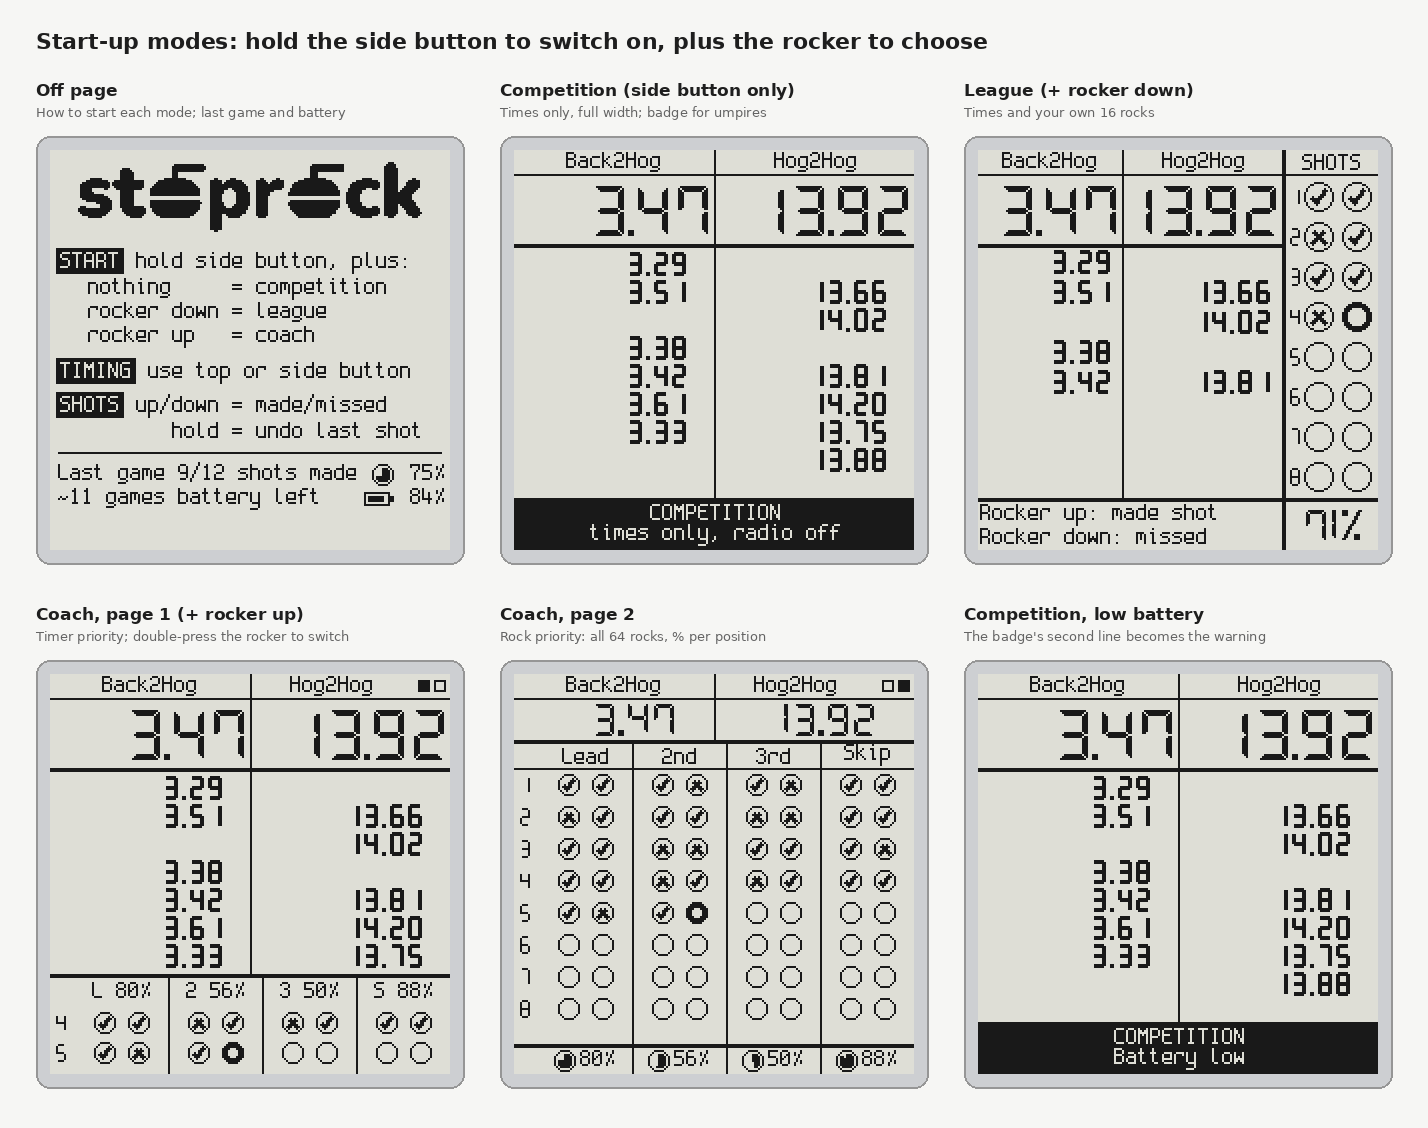
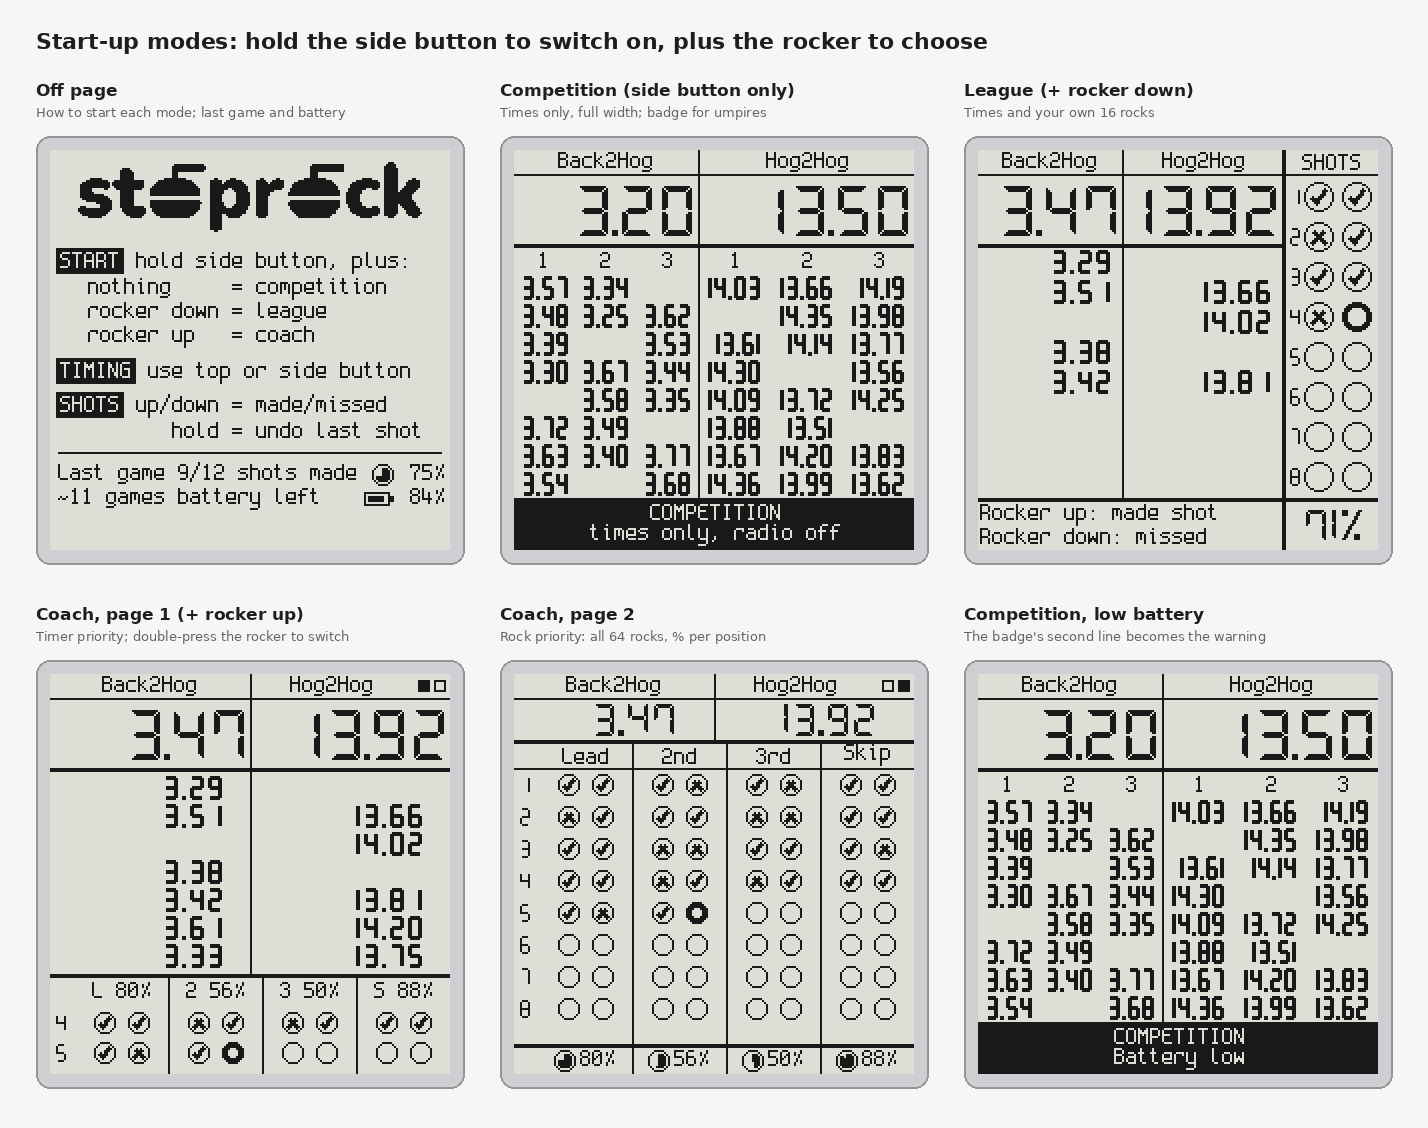
Competition: history in three columns per split
Older times now sit three to a row under column labels 1 2 3, filling
rows left to right, newest first: 24 stones instead of 9. They use
slightly narrower drawn digits (6 px wide, a narrow "1"), and the split
moves to x 92 so the wider H2H times get more room. The app keeps 25
stones for the screen.

Claude-Session: https://claude.ai/code/session_01YA9zoncxe9XeMCwR12hQbC

diff --git a/firmware/lib/stoprock_ui/src/screens.cpp b/firmware/lib/stoprock_ui/src/screens.cpp
@@ -63,6 +63,7 @@ struct SegFont {
 
 constexpr SegFont kRowFont{12, 7, 2, 2, 2, false};  // older results
 constexpr SegFont kEndFont{9, 5, 1, 1, 1, false};   // end numbers: equal-width cells, a "1" sits on the right
+constexpr SegFont kGridFont{12, 6, 2, 1, 2, true};   // competition history, three to a row
 
 enum Align { kLeft, kCentre, kRight };
 
@@ -311,18 +312,55 @@ void rectOutline(Canvas& c, int x0, int y0, int x1, int y1) {
     c.fillRect(x1, y0, x1, y1);
 }
 
-// Back2Hog | Hog2Hog across the full width: header, newest large, older below.
-void timesWide(Canvas& c, const Stone* stones, int count, int bottom, int labelRight) {
+// Competition history: three columns in each half, labelled 1 2 3; older stones fill the rows
+// left to right, newest first. H2H times are a digit wider, so that half is wider (split at 92).
+constexpr int COMP_MID = 92;
+constexpr int GRID_TOP = 62, GRID_PITCH = 14;
+constexpr int GRID_TYPICAL[2] = {23, 26};  // width of "3.47" and "13.92": each column centres that width
+
+void gridColumns(int half, int mid, int* edges) {
+    const int x0 = half == 0 ? 0 : mid, x1 = half == 0 ? mid : W;
+    for (int k = 0; k < 4; ++k) edges[k] = x0 + (x1 - x0) * k / 3;
+}
+
+void timesGrid(Canvas& c, const Stone* stones, int count, int bottom, int mid) {
+    int cols[2][4];
+    gridColumns(0, mid, cols[0]);
+    gridColumns(1, mid, cols[1]);
+    static const char* const kLabels[3] = {"1", "2", "3"};
+    for (int half = 0; half < 2; ++half)
+        for (int k = 0; k < 3; ++k)
+            textInBox(c, kFontSpleen6x12, kLabels[k], cols[half][k], cols[half][k + 1], 49, 61, kCentre, 4);
+    char buf[12];
+    for (int i = 1; i < count; ++i) {
+        const int row = (i - 1) / 3, k = (i - 1) % 3;
+        const int ry = GRID_TOP + row * GRID_PITCH;
+        if (ry + GRID_PITCH > bottom) break;
+        const int32_t vals[2] = {stones[i].bh, stones[i].hh};
+        for (int half = 0; half < 2; ++half) {
+            if (vals[half] < 0) continue;
+            const int x0 = cols[half][k], x1 = cols[half][k + 1];
+            formatTime(vals[half], buf, sizeof buf);
+            segInBox(c, kGridFont, buf, x0, x1, ry, ry + GRID_PITCH, kRight, (x1 - x0 - GRID_TYPICAL[half]) / 2);
+        }
+    }
+}
+
+// Back2Hog | Hog2Hog across the full width: header, newest large, older below
+// (one to a row, or with grid three to a row).
+void timesWide(Canvas& c, const Stone* stones, int count, int bottom, int labelRight, bool grid = false,
+               int mid = WIDE_MID) {
     const Font& label = kFontSpleen6x12;
-    textInBox(c, label, "Back2Hog", 0, WIDE_MID, 0, LABEL_H, kCentre, 4);
-    textInBox(c, label, "Hog2Hog", WIDE_MID, labelRight, 0, LABEL_H, kCentre, 4);
+    textInBox(c, label, "Back2Hog", 0, mid, 0, LABEL_H, kCentre, 4);
+    textInBox(c, label, "Hog2Hog", mid, labelRight, 0, LABEL_H, kCentre, 4);
     hline(c, 0, W - 1, LABEL_H);
     if (count > 0) {
-        if (stones[0].bh >= 0) dsegNumber(c, stones[0].bh, 0, WIDE_MID, 13, 47);
-        if (stones[0].hh >= 0) dsegNumber(c, stones[0].hh, WIDE_MID, W, 13, 47);
+        if (stones[0].bh >= 0) dsegNumber(c, stones[0].bh, 0, mid, 13, 47);
+        if (stones[0].hh >= 0) dsegNumber(c, stones[0].hh, mid, W, 13, 47);
     }
     hline(c, 0, W - 1, 47, 2);
-    vline(c, WIDE_MID, 0, bottom - 1);
+    vline(c, mid, 0, bottom - 1);
+    if (grid) { timesGrid(c, stones, count, bottom, mid); return; }
     char buf[12];
     for (int i = 1; i < count; ++i) {
         const int ry = 50 + (i - 1) * 14;
@@ -368,7 +406,7 @@ void drawCompetition(Canvas& c, const Stone* stones, uint8_t count, bool lowBatt
     c.clear();
     const Font& label = kFontSpleen6x12;
     const int strip = H - TIP_H;
-    timesWide(c, stones, count, strip, W);
+    timesWide(c, stones, count, strip, W, true, COMP_MID);
     c.fillRect(0, strip, W - 1, H - 1);
     textInBox(c, label, "COMPETITION", 0, W, strip + 1, strip + 13, kCentre, 4, false);
     textInBox(c, label, lowBattery ? "Battery low" : "times only, radio off", 0, W, strip + 13, strip + 25,

diff --git a/tools/mockups/screen.py b/tools/mockups/screen.py
@@ -158,6 +158,7 @@ def _make_fonts():
         big=ImageFont.truetype(str(DSEG), 25),
         row=SegFont(h=12, w=7, t=2, gap=2, dot=2),
         tiny=SegFont(h=9, w=5, t=1, gap=1),  # equal-width cells: a "1" sits on the right
+        grid=SegFont(h=12, w=6, t=2, gap=1, dot=2, prop=True),  # competition history: 3 to a row
         pct=ImageFont.truetype(str(DSEG), 16),
     )
 
@@ -363,10 +364,42 @@ WIDE_MID = 100               # times split in competition and coach page 1
 COACH_GX = [12 + k * 47 for k in range(5)]  # coach position columns
 
 
-def times_wide(d, f, stones, bottom, label_right=W):
-    """Back2Hog | Hog2Hog across the full width: header, newest large, older below.
+# Competition history: three columns in each half, labelled 1 2 3; older stones fill the rows
+# left to right, newest first, so column 1 of the top row is the stone before the newest.
+# H2H times are a digit wider than B2H, so the H2H half is wider: the split moves left to 92.
+COMP_MID = 92
+GRID_TOP = 62                # first row
+GRID_PITCH = 14
+GRID_TYPICAL = (23, 26)      # width of "3.47" and "13.92": each column centres that width
+
+
+def grid_columns(half, mid):
+    """Edges of the three columns in a half (0 = B2H, 1 = H2H)."""
+    x0, x1 = (0, mid) if half == 0 else (mid, W)
+    return [x0 + (x1 - x0) * k // 3 for k in range(4)]
+
+
+def times_grid(d, f, stones, bottom, mid):
+    cols = [grid_columns(0, mid), grid_columns(1, mid)]
+    for half in range(2):
+        for k in range(3):
+            text_in_box(d, str(k + 1), f["label"], cols[half][k], cols[half][k + 1], 49, 61, align="center")
+    for i, stone in enumerate(stones[1:]):
+        row, k = divmod(i, 3)
+        ry = GRID_TOP + row * GRID_PITCH
+        if ry + GRID_PITCH > bottom:
+            break
+        for half, val in enumerate(stone):
+            if val is not None:
+                x0, x1 = cols[half][k], cols[half][k + 1]
+                margin = (x1 - x0 - GRID_TYPICAL[half]) // 2
+                text_in_box(d, f"{val:.2f}", f["grid"], x0, x1, ry, ry + GRID_PITCH, margin=margin)
+
+
+def times_wide(d, f, stones, bottom, label_right=W, grid=False, mid=WIDE_MID):
+    """Back2Hog | Hog2Hog across the full width: header, newest large, older below
+    (one to a row, or with grid=True three to a row).
     label_right: where the Hog2Hog label's box ends (left of the page marks in coach mode)."""
-    mid = WIDE_MID
     text_in_box(d, "Back2Hog", f["label"], 0, mid, 0, 12, align="center")
     text_in_box(d, "Hog2Hog", f["label"], mid, label_right, 0, 12, align="center")
     d.line([(0, 12), (W - 1, 12)], fill=0)
@@ -376,6 +409,8 @@ def times_wide(d, f, stones, bottom, label_right=W):
                 dseg_number(d, val, f["big"], x0, x1, 13, 47)
     d.line([(0, 47), (W - 1, 47)], fill=0, width=2)
     d.line([(mid, 0), (mid, bottom - 1)], fill=0)
+    if grid:
+        return times_grid(d, f, stones, bottom, mid)
     for i, stone in enumerate(stones[1:]):
         ry = 50 + i * 14
         if ry + 14 > bottom:
@@ -392,7 +427,7 @@ def competition_screen(stones, low_battery=False):
     d = ImageDraw.Draw(img)
     d.fontmode = "1"
     strip = H - TIP_H
-    times_wide(d, f, stones, strip)
+    times_wide(d, f, stones, strip, grid=True, mid=COMP_MID)
     d.rectangle([0, strip, W - 1, H - 1], fill=0)
     text_in_box(d, "COMPETITION", f["label"], 0, W, strip + 1, strip + 13, align="center", fill=1)
     sub = "Battery low" if low_battery else "times only, radio off"

diff --git a/tools/mockups/render.py b/tools/mockups/render.py
@@ -34,6 +34,10 @@ COACH_SHOTS = [i % 5 != 3 and i % 7 != 5 for i in range(35)]
 COACH_STONES = [(3.47, 13.92), (3.29, None), (3.51, 13.66), (None, 14.02), (3.38, None), (3.42, 13.81),
                 (3.61, 14.20), (3.33, 13.75), (None, 13.88), (3.40, 14.05), (3.55, None), (3.36, 13.97)]
 
+# competition sample: 25 stones (the newest and 24 in the history grid), newest first
+COMP_STONES = [(None if i % 5 == 3 else (320 + i * 37 % 60) / 100,
+                None if i % 7 == 4 else (1350 + i * 53 % 90) / 100) for i in range(25)]
+
 
 def caption_font(size, bold=False):
     path = f"/usr/share/fonts/truetype/dejavu/DejaVuSans{'-Bold' if bold else ''}.ttf"
@@ -96,7 +100,7 @@ def main():
         ("Off page", "How to start each mode; last game and battery",
          screen.help_page(dev, "Last game 9/12 shots made", shot_pct=75, battery=84, battery_note="~11 games battery left")),
         ("Competition (side button only)", "Times only, full width; badge for umpires",
-         screen.competition_screen(COACH_STONES)),
+         screen.competition_screen(COMP_STONES)),
         ("League (+ rocker down)", "Times and your own 16 rocks",
          screen.main_screen(STONES, BASE + [False], tip=TIPS[0])),
         ("Coach, page 1 (+ rocker up)", "Timer priority; double-press the rocker to switch",
@@ -104,7 +108,7 @@ def main():
         ("Coach, page 2", "Rock priority: all 64 rocks, % per position",
          screen.coach_rocks_screen(COACH_STONES, COACH_SHOTS)),
         ("Competition, low battery", "The badge's second line becomes the warning",
-         screen.competition_screen(COACH_STONES, low_battery=True)),
+         screen.competition_screen(COMP_STONES, low_battery=True)),
     ], DOCS / "modes.png")
 
     sheet("Logging your shots with the rocker (ring = cursor on the next slot)", [

diff --git a/firmware/src/render_main.cpp b/firmware/src/render_main.cpp
@@ -59,10 +59,16 @@ int main(int argc, char** argv) {
     // start-up modes: the same samples as tools/mockups/render.py (COACH_STONES, COACH_SHOTS)
     const Stone many[] = {{347, 1392}, {329, -1},  {351, 1366}, {-1, 1402}, {338, -1},  {342, 1381},
                           {361, 1420}, {333, 1375}, {-1, 1388}, {340, 1405}, {355, -1}, {336, 1397}};
-    drawCompetition(c, many, 12, false);
+    // competition: 25 stones, as tools/mockups/render.py COMP_STONES
+    Stone comp[25];
+    for (int i = 0; i < 25; ++i) {
+        comp[i].bh = i % 5 == 3 ? -1 : 320 + i * 37 % 60;
+        comp[i].hh = i % 7 == 4 ? -1 : 1350 + i * 53 % 90;
+    }
+    drawCompetition(c, comp, 25, false);
     snprintf(path, sizeof path, "%s/competition.pbm", dir);
     writePbm(c, path);
-    drawCompetition(c, many, 12, true);
+    drawCompetition(c, comp, 25, true);
     snprintf(path, sizeof path, "%s/competition-battery.pbm", dir);
     writePbm(c, path);
     for (int n : {0, 8, 35, 63, 64}) {

diff --git a/tools/compare_render.py b/tools/compare_render.py
@@ -24,8 +24,8 @@ def main():
         "battery": screen.main_screen(render.STONES, shots, tip=render.WARNING, warn=True),
         "help": screen.help_page(logo.device_logo(), "Last game 9/12 shots made", shot_pct=75, battery=84, battery_note="~11 games battery left"),
     }
-    refs["competition"] = screen.competition_screen(render.COACH_STONES)
-    refs["competition-battery"] = screen.competition_screen(render.COACH_STONES, low_battery=True)
+    refs["competition"] = screen.competition_screen(render.COMP_STONES)
+    refs["competition-battery"] = screen.competition_screen(render.COMP_STONES, low_battery=True)
     for n in (0, 8, 35, 63, 64):
         coach = [i % 5 != 3 and i % 7 != 5 for i in range(n)]
         st = render.COACH_STONES if n else []

diff --git a/firmware/src/app.cpp b/firmware/src/app.cpp
@@ -38,7 +38,7 @@ constexpr uint32_t kMinGameSecondsForBattery = 60;
 constexpr int64_t kBatteryCheckUs = 30 * kSec;
 constexpr uint32_t kMinGameSecondsForBattery = 20 * 60;
 #endif
-constexpr int kMaxStones = 12;
+constexpr int kMaxStones = 25;  // on screen: the newest and up to 24 older (competition)
 
 const char* const kTips[][2] = {
     {"Rocker up: made shot", "Rocker down: missed"},

diff --git a/docs/SPEC.md b/docs/SPEC.md
@@ -54,7 +54,7 @@ What the rocker is doing while the side button switches the device on picks the 
 
 | Switch on with | Mode | Screen | Rocker |
 |---|---|---|---|
-| Side button only | **Competition** | Times only, full width (Back2Hog and Hog2Hog 100 px each); a black badge strip at the bottom reads `COMPETITION` / `times only, radio off`, for an umpire | Does nothing |
+| Side button only | **Competition** | Times only, full width, the last 24 in three columns per split; a black badge strip at the bottom reads `COMPETITION` / `times only, radio off`, for an umpire | Does nothing |
 | Side button + rocker **down** | **League** | The main screen (section 8): times and your own 16 rocks | Made / missed / undo |
 | Side button + rocker **up** | **Coach** | Two pages (section 8a): the whole team's 64 rocks | Made / missed / undo; double press switches page |
 
@@ -144,7 +144,7 @@ A stone gives at most one **B2H** (back line, or tee line, to hog line) followed
 
 ## 8a. Competition and coach screens
 
-**Competition.** Labels y 0–12, newest result y 13–47 (DSEG7 25 px) in two 100 px columns, older results below in 14 px rows (the same drawn digits as the main screen), and the badge strip in the bottom 26 px, white on black. A low battery replaces `times only, radio off` with `Battery low`.
+**Competition.** Labels y 0–12, newest result y 13–47 (DSEG7 25 px), split at x 92 (the H2H half is wider, as its times have a digit more). Below, the older results three to a row in each half, under column labels `1 2 3`: they fill the rows left to right, newest first, so the top row's column 1 is the stone before the newest. 8 rows of 14 px hold 24 stones, in drawn digits a little narrower than the main screen's (12 px high, 6 px wide, a narrow "1"). The badge strip fills the bottom 26 px, white on black. A low battery replaces `times only, radio off` with `Battery low`.
 
 **Coach, page 1 (timer priority).** The competition layout's times down to y 150, then the previous and current end: four columns (L, 2, 3, S), each headed with that position's running percentage, two rows of rocks (radius 5) with the end number on the left. Two small squares top right show which page is up.
 
